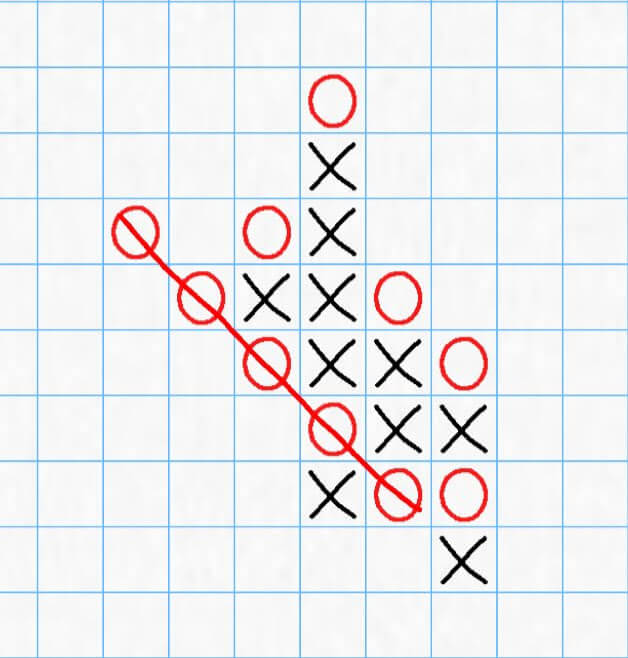
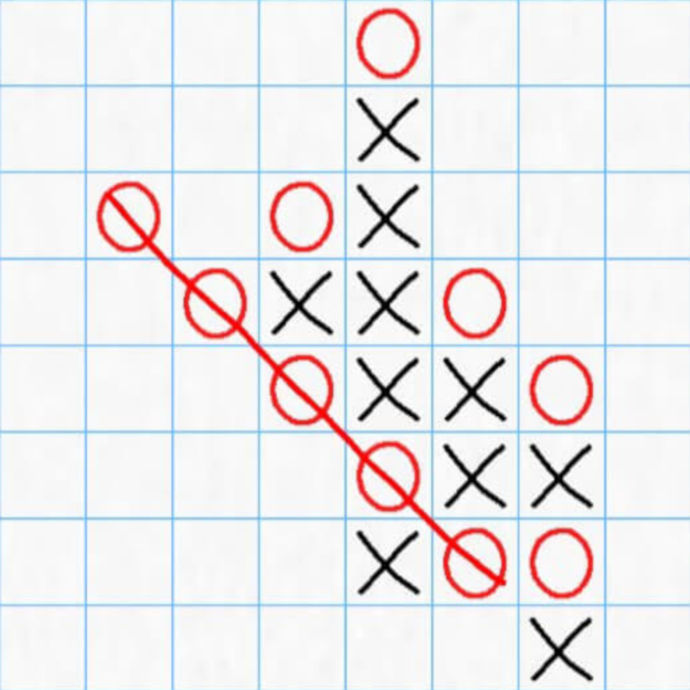
Rules: transform images to same dimensions

Changed region(s): [[0.0, 0.0, 1.0, 1.0]]

diff --git a/pravidla.html b/pravidla.html
@@ -48,21 +48,41 @@
 				</div>
 				<div class="rules__figures">
 					<figure class="rules__figure">
-						<img src="images/instructions-01.jpg" alt="" />
+						<img
+							src="images/instructions-01.jpg"
+							width="690"
+							height="690"
+							alt=""
+						/>
 						<figcaption>
 							Situace po třech tazích - na tahu je hráč s kolečky
 						</figcaption>
 					</figure>
 					<figure class="rules__figure">
-						<img src="images/instructions-02.jpg" alt="" />
+						<img
+							src="images/instructions-02.jpg"
+							width="690"
+							height="690"
+							alt=""
+						/>
 						<figcaption>Situace po čtyřech tazích</figcaption>
 					</figure>
 					<figure class="rules__figure">
-						<img src="images/instructions-03.jpg" alt="" />
+						<img
+							src="images/instructions-03.jpg"
+							width="690"
+							height="690"
+							alt=""
+						/>
 						<figcaption>Výherní pozice hráče s kolečky</figcaption>
 					</figure>
 					<figure class="rules__figure">
-						<img src="images/instructions-04.jpg" alt="" />
+						<img
+							src="images/instructions-04.jpg"
+							width="690"
+							height="690"
+							alt=""
+						/>
 						<figcaption>
 							V této situaci nikdo nevyhrává. Pokud je na tahu hráč s kolečky,
 							může přidat další kolečko do šikmé řady, kde už má 4 kolečka, a
@@ -70,15 +90,30 @@
 						</figcaption>
 					</figure>
 					<figure class="rules__figure">
-						<img src="images/instructions-05.jpg" alt="" />
+						<img
+							src="images/instructions-05.jpg"
+							width="690"
+							height="690"
+							alt=""
+						/>
 						<figcaption>Jiná výherní pozice hráče s kolečky</figcaption>
 					</figure>
 					<figure class="rules__figure">
-						<img src="images/instructions-06.jpg" alt="" />
+						<img
+							src="images/instructions-06.jpg"
+							width="690"
+							height="690"
+							alt=""
+						/>
 						<figcaption>Ještě jedna výherní pozice hráče s kolečky</figcaption>
 					</figure>
 					<figure class="rules__figure">
-						<img src="images/instructions-07.jpg" alt="" />
+						<img
+							src="images/instructions-07.jpg"
+							width="690"
+							height="690"
+							alt=""
+						/>
 						<figcaption>Výherní pozice hráče s křížky</figcaption>
 					</figure>
 				</div>

diff --git a/style.css b/style.css
@@ -240,6 +240,7 @@ body {
 
 .rules__figure img {
 	width: 100%;
+	height: auto;
 }
 
 .rules__figure figcaption {
